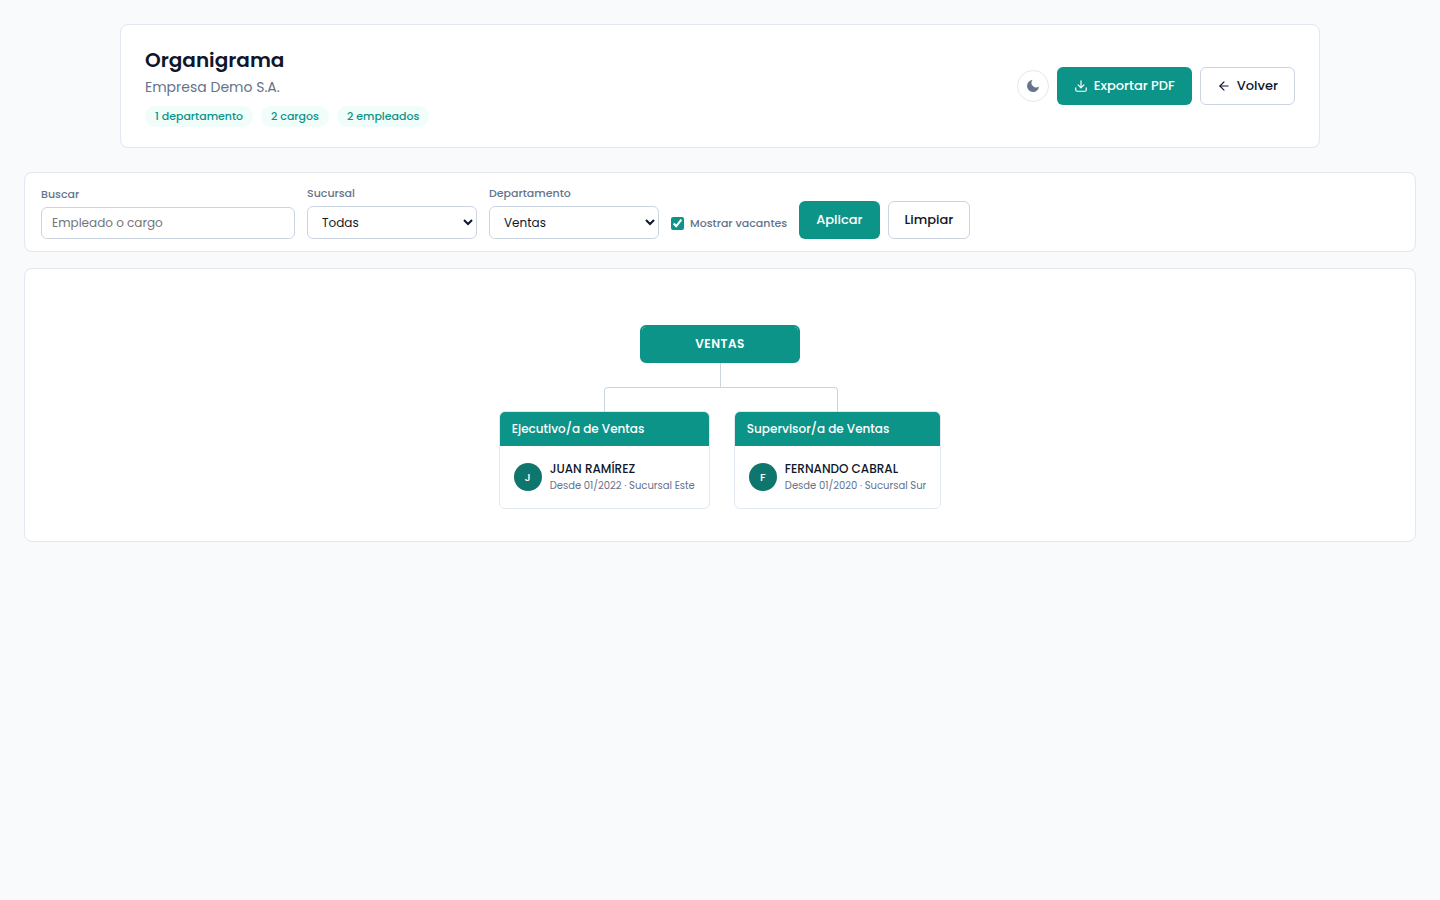
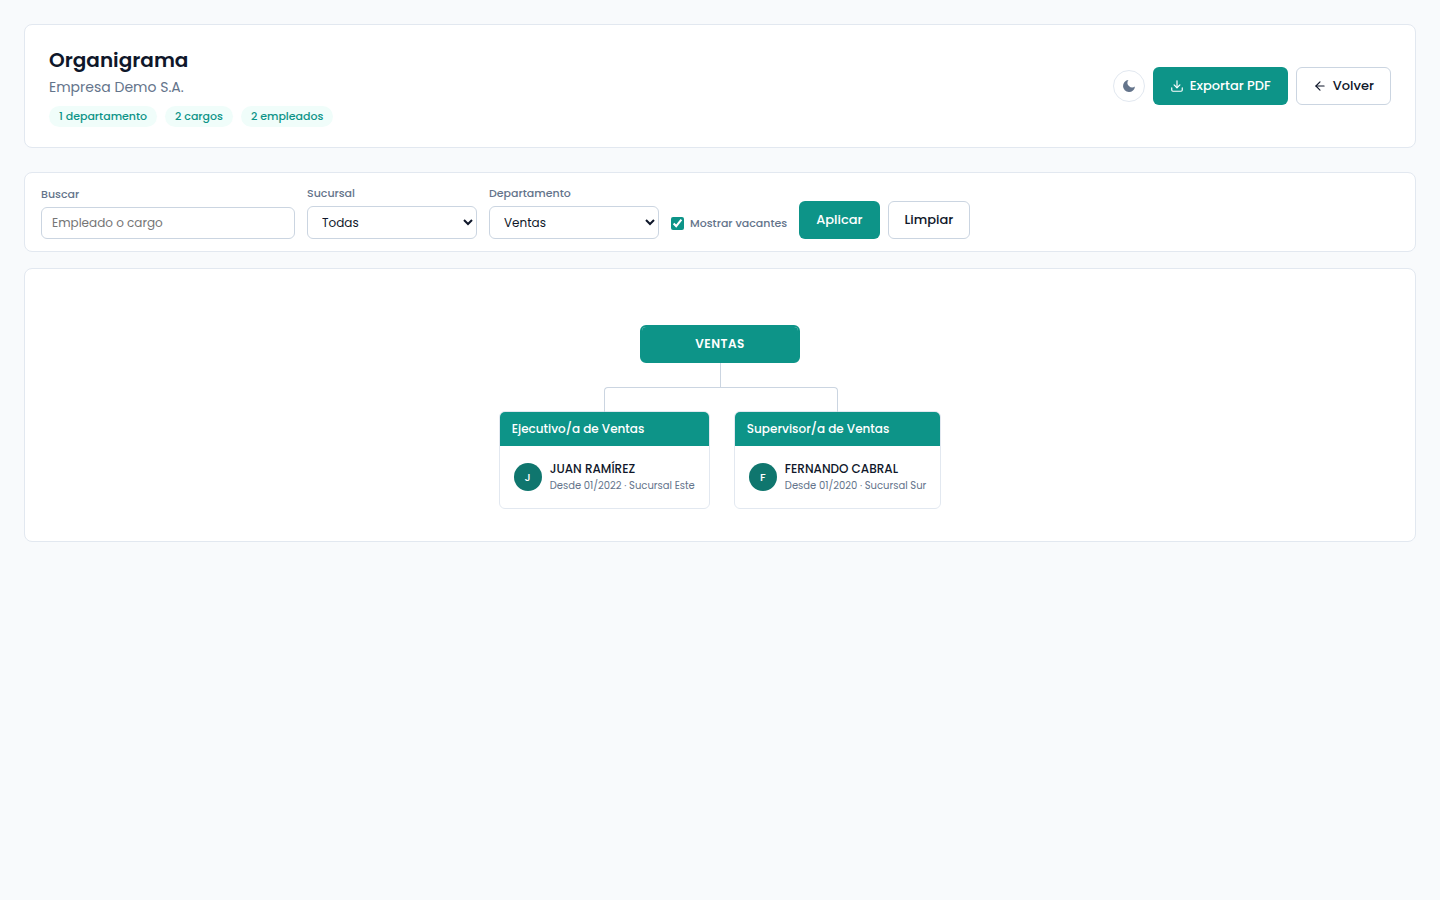
Organigrama: cabecera a ancho completo, alineada con filtros y lienzo
Claude-Session: https://claude.ai/code/session_016uALGGZd5ufPtjAioqAnnP

Changed region(s): [[0.0312, 0.0622, 0.2188, 0.1556], [0.7188, 0.0622, 0.9688, 0.1244], [0.25, 0.1244, 0.2812, 0.1556]]

diff --git a/resources/css/org-chart/org-chart.css b/resources/css/org-chart/org-chart.css
@@ -27,8 +27,7 @@ body {
     border: 1px solid var(--c-border);
     border-radius: var(--r);
     padding: var(--sp-5) var(--sp-6);
-    margin: 0 auto var(--sp-6);
-    max-width: 1200px;
+    margin-bottom: var(--sp-6);
     display: flex;
     justify-content: space-between;
     align-items: center;
